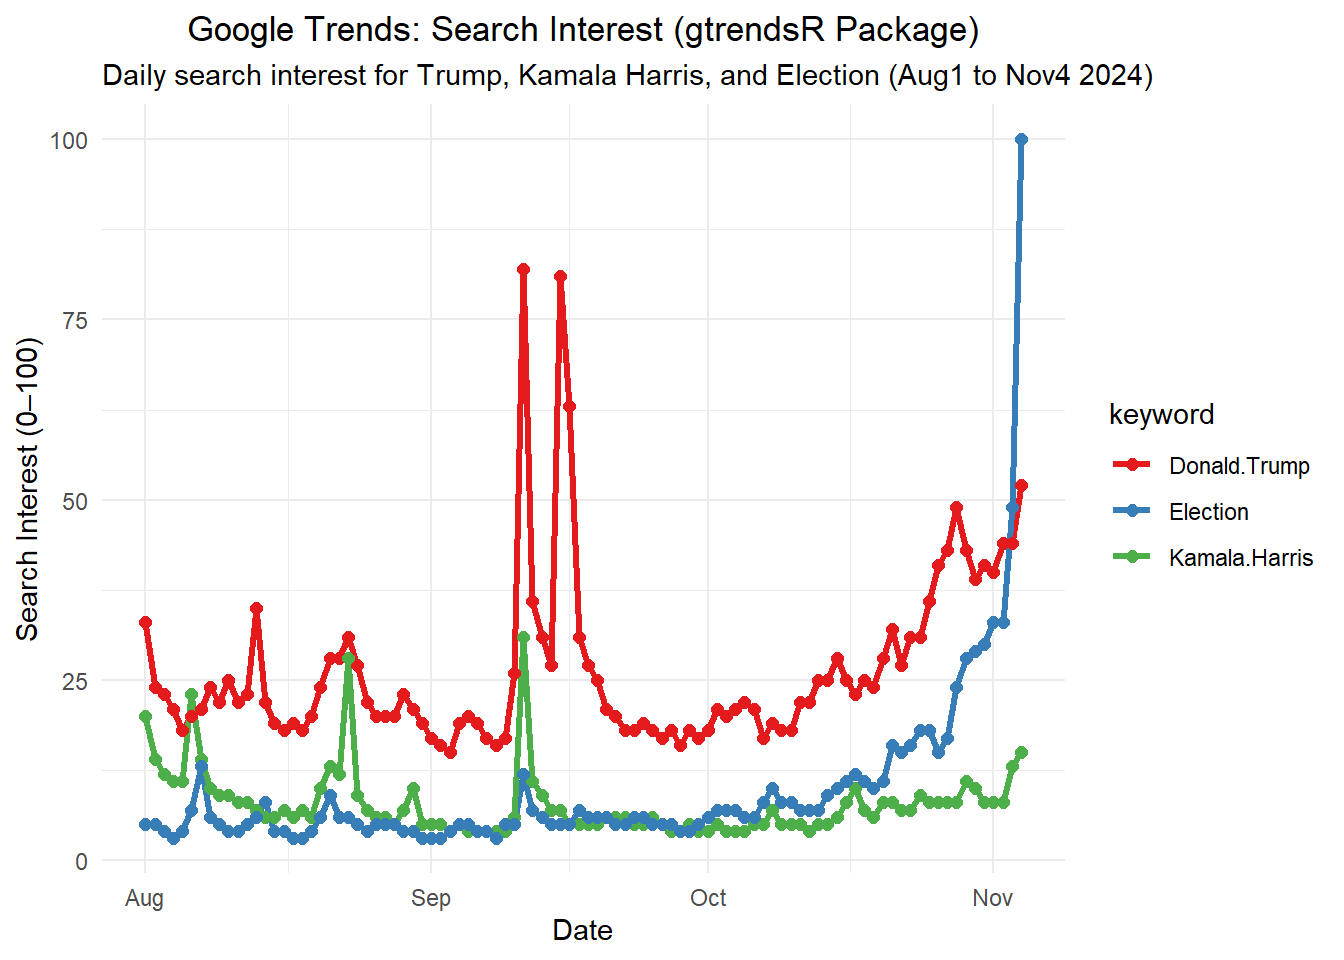
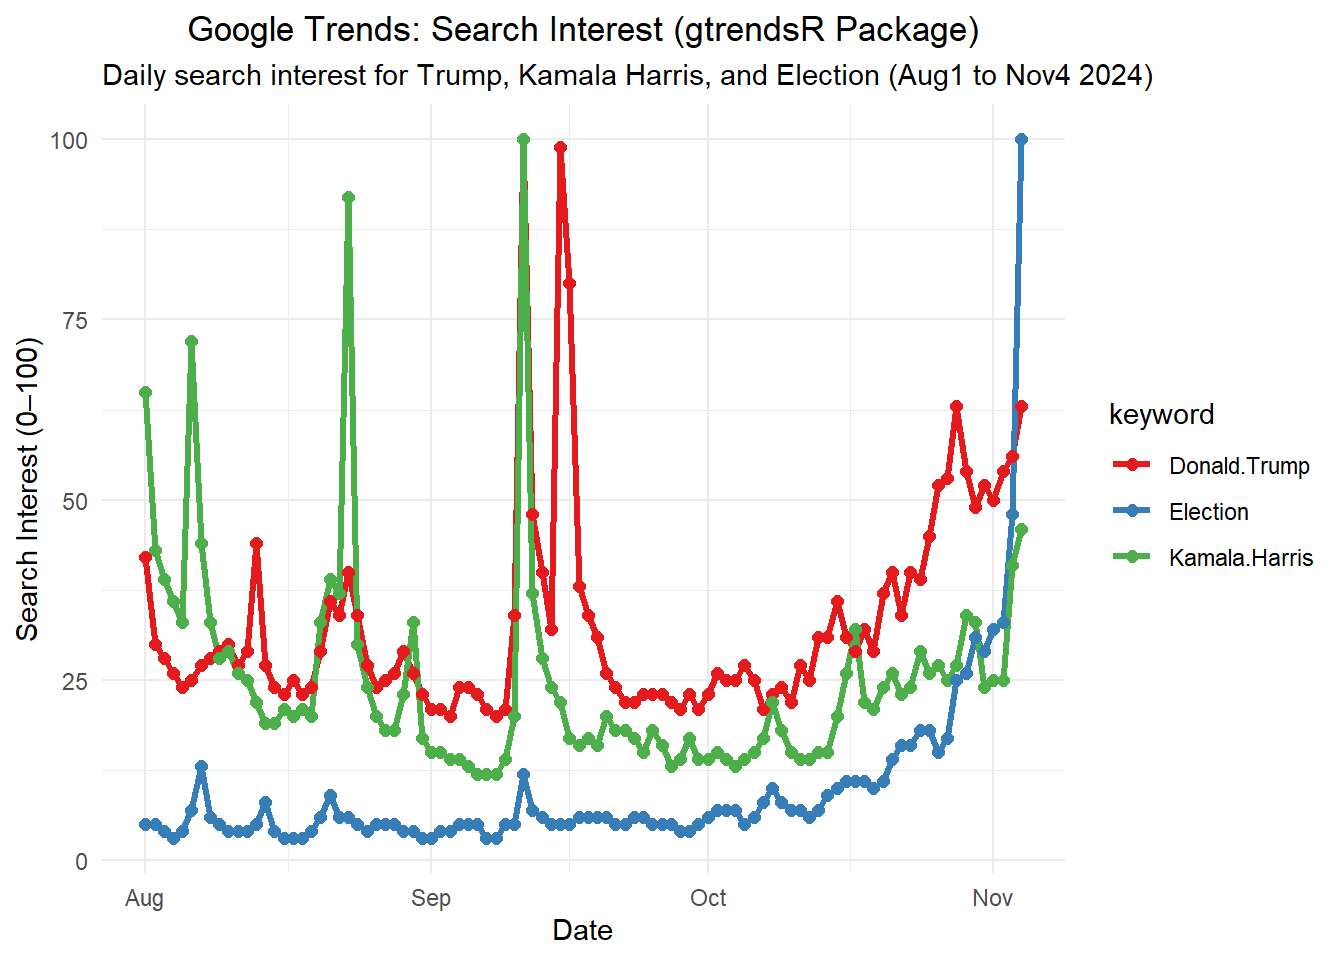
Ass 2 final

Changed region(s): [[0.0938, 0.125, 0.7812, 0.875], [0.75, 0.7812, 0.7812, 0.8125], [0.75, 0.4062, 0.7812, 0.4375]]

diff --git a/_site/Assignment12.html b/_site/Assignment12.html
@@ -193,6 +193,7 @@ pre > code.sourceCode > span > a:first-child::before { text-decoration: underlin
    
   <ul>
   <li><a href="#analysis-by-downloading-google-trends-data" id="toc-analysis-by-downloading-google-trends-data" class="nav-link active" data-scroll-target="#analysis-by-downloading-google-trends-data">Analysis by Downloading Google Trends Data</a></li>
+  <li><a href="#analysis-by-gtrendsr" id="toc-analysis-by-gtrendsr" class="nav-link" data-scroll-target="#analysis-by-gtrendsr">Analysis by gtrendsR</a></li>
   </ul>
 </nav>
     </div>
@@ -256,6 +257,63 @@ pre > code.sourceCode > span > a:first-child::before { text-decoration: underlin
 </div>
 </div>
 <p>The provided code utilizes three CSV files obtained from Google Trends. However, the datasets require preprocessing due to inconsistencies and formatting issues unsuitable for direct R analysis. Data cleaning steps were thus essential to enable effective visualization.</p>
+</section>
+<section id="analysis-by-gtrendsr" class="level1">
+<h1>Analysis by gtrendsR</h1>
+<div class="cell">
+<div class="sourceCode cell-code" id="cb2"><pre class="sourceCode r code-with-copy"><code class="sourceCode r"><span id="cb2-1"><a href="#cb2-1" aria-hidden="true" tabindex="-1"></a><span class="cf">if</span> (<span class="sc">!</span><span class="fu">requireNamespace</span>(<span class="st">"gtrendsR"</span>, <span class="at">quietly =</span> <span class="cn">TRUE</span>)) {</span>
+<span id="cb2-2"><a href="#cb2-2" aria-hidden="true" tabindex="-1"></a>  <span class="fu">install.packages</span>(<span class="st">"gtrendsR"</span>)</span>
+<span id="cb2-3"><a href="#cb2-3" aria-hidden="true" tabindex="-1"></a>}</span>
+<span id="cb2-4"><a href="#cb2-4" aria-hidden="true" tabindex="-1"></a><span class="fu">library</span>(gtrendsR)</span>
+<span id="cb2-5"><a href="#cb2-5" aria-hidden="true" tabindex="-1"></a></span>
+<span id="cb2-6"><a href="#cb2-6" aria-hidden="true" tabindex="-1"></a></span>
+<span id="cb2-7"><a href="#cb2-7" aria-hidden="true" tabindex="-1"></a>dates <span class="ot">&lt;-</span> <span class="st">"2024-08-01 2024-11-04"</span></span>
+<span id="cb2-8"><a href="#cb2-8" aria-hidden="true" tabindex="-1"></a>geo   <span class="ot">&lt;-</span> <span class="st">"US"</span></span>
+<span id="cb2-9"><a href="#cb2-9" aria-hidden="true" tabindex="-1"></a></span>
+<span id="cb2-10"><a href="#cb2-10" aria-hidden="true" tabindex="-1"></a>fetch_trend <span class="ot">&lt;-</span> <span class="cf">function</span>(term) {</span>
+<span id="cb2-11"><a href="#cb2-11" aria-hidden="true" tabindex="-1"></a>  <span class="fu">cat</span>(<span class="st">"Fetching:"</span>, term, <span class="st">"</span><span class="sc">\n</span><span class="st">"</span>)</span>
+<span id="cb2-12"><a href="#cb2-12" aria-hidden="true" tabindex="-1"></a>  res <span class="ot">&lt;-</span> <span class="fu">gtrends</span>(</span>
+<span id="cb2-13"><a href="#cb2-13" aria-hidden="true" tabindex="-1"></a>    <span class="at">keyword =</span> term,</span>
+<span id="cb2-14"><a href="#cb2-14" aria-hidden="true" tabindex="-1"></a>    <span class="at">time =</span> dates,</span>
+<span id="cb2-15"><a href="#cb2-15" aria-hidden="true" tabindex="-1"></a>    <span class="at">geo =</span> geo,</span>
+<span id="cb2-16"><a href="#cb2-16" aria-hidden="true" tabindex="-1"></a>    <span class="at">gprop =</span> <span class="st">"web"</span>,</span>
+<span id="cb2-17"><a href="#cb2-17" aria-hidden="true" tabindex="-1"></a>    <span class="at">hl =</span> <span class="st">"en-US"</span></span>
+<span id="cb2-18"><a href="#cb2-18" aria-hidden="true" tabindex="-1"></a>  )</span>
+<span id="cb2-19"><a href="#cb2-19" aria-hidden="true" tabindex="-1"></a>  <span class="fu">Sys.sleep</span>(<span class="dv">25</span>)  </span>
+<span id="cb2-20"><a href="#cb2-20" aria-hidden="true" tabindex="-1"></a>  <span class="fu">return</span>(res<span class="sc">$</span>interest_over_time)</span>
+<span id="cb2-21"><a href="#cb2-21" aria-hidden="true" tabindex="-1"></a>}</span>
+<span id="cb2-22"><a href="#cb2-22" aria-hidden="true" tabindex="-1"></a></span>
+<span id="cb2-23"><a href="#cb2-23" aria-hidden="true" tabindex="-1"></a>terms <span class="ot">&lt;-</span> <span class="fu">c</span>(<span class="st">"Trump"</span>, <span class="st">"Kamala Harris"</span>, <span class="st">"Election"</span>)</span>
+<span id="cb2-24"><a href="#cb2-24" aria-hidden="true" tabindex="-1"></a>trends_list <span class="ot">&lt;-</span> <span class="fu">lapply</span>(terms, fetch_trend)</span></code><button title="Copy to Clipboard" class="code-copy-button"><i class="bi"></i></button></pre></div>
+<div class="cell-output cell-output-stdout">
+<pre><code>Fetching: Trump 
+Fetching: Kamala Harris 
+Fetching: Election </code></pre>
+</div>
+<div class="sourceCode cell-code" id="cb4"><pre class="sourceCode r code-with-copy"><code class="sourceCode r"><span id="cb4-1"><a href="#cb4-1" aria-hidden="true" tabindex="-1"></a>trends_data <span class="ot">&lt;-</span> <span class="fu">bind_rows</span>(trends_list)</span>
+<span id="cb4-2"><a href="#cb4-2" aria-hidden="true" tabindex="-1"></a></span>
+<span id="cb4-3"><a href="#cb4-3" aria-hidden="true" tabindex="-1"></a>trends_data<span class="sc">$</span>keyword <span class="ot">&lt;-</span> <span class="fu">gsub</span>(<span class="st">"Trump"</span>, <span class="st">"Donald.Trump"</span>, trends_data<span class="sc">$</span>keyword)</span>
+<span id="cb4-4"><a href="#cb4-4" aria-hidden="true" tabindex="-1"></a>trends_data<span class="sc">$</span>keyword <span class="ot">&lt;-</span> <span class="fu">gsub</span>(<span class="st">"Kamala Harris"</span>, <span class="st">"Kamala.Harris"</span>, trends_data<span class="sc">$</span>keyword)</span>
+<span id="cb4-5"><a href="#cb4-5" aria-hidden="true" tabindex="-1"></a></span>
+<span id="cb4-6"><a href="#cb4-6" aria-hidden="true" tabindex="-1"></a></span>
+<span id="cb4-7"><a href="#cb4-7" aria-hidden="true" tabindex="-1"></a><span class="co"># Plot</span></span>
+<span id="cb4-8"><a href="#cb4-8" aria-hidden="true" tabindex="-1"></a><span class="fu">ggplot</span>(trends_data, <span class="fu">aes</span>(<span class="at">x =</span> date, <span class="at">y =</span> hits, <span class="at">color =</span> keyword)) <span class="sc">+</span></span>
+<span id="cb4-9"><a href="#cb4-9" aria-hidden="true" tabindex="-1"></a>  <span class="fu">geom_line</span>(<span class="at">size =</span> <span class="fl">1.2</span>) <span class="sc">+</span></span>
+<span id="cb4-10"><a href="#cb4-10" aria-hidden="true" tabindex="-1"></a>  <span class="fu">geom_point</span>(<span class="at">size =</span> <span class="dv">2</span>) <span class="sc">+</span></span>
+<span id="cb4-11"><a href="#cb4-11" aria-hidden="true" tabindex="-1"></a>  <span class="fu">labs</span>(</span>
+<span id="cb4-12"><a href="#cb4-12" aria-hidden="true" tabindex="-1"></a>    <span class="at">title =</span> <span class="st">"Google Trends: Search Interest (gtrendsR Package)"</span>,</span>
+<span id="cb4-13"><a href="#cb4-13" aria-hidden="true" tabindex="-1"></a>    <span class="at">subtitle =</span> <span class="st">"Daily search interest for Trump, Kamala Harris, and Election (Aug1 to Nov4 2024)"</span>,</span>
+<span id="cb4-14"><a href="#cb4-14" aria-hidden="true" tabindex="-1"></a>    <span class="at">x =</span> <span class="st">"Date"</span>,</span>
+<span id="cb4-15"><a href="#cb4-15" aria-hidden="true" tabindex="-1"></a>    <span class="at">y =</span> <span class="st">"Search Interest (0–100)"</span></span>
+<span id="cb4-16"><a href="#cb4-16" aria-hidden="true" tabindex="-1"></a>  ) <span class="sc">+</span></span>
+<span id="cb4-17"><a href="#cb4-17" aria-hidden="true" tabindex="-1"></a>  <span class="fu">scale_color_brewer</span>(<span class="at">palette =</span> <span class="st">"Set1"</span>) <span class="sc">+</span></span>
+<span id="cb4-18"><a href="#cb4-18" aria-hidden="true" tabindex="-1"></a>  <span class="fu">theme_minimal</span>() <span class="sc">+</span></span>
+<span id="cb4-19"><a href="#cb4-19" aria-hidden="true" tabindex="-1"></a>  <span class="fu">theme</span>(<span class="at">plot.title =</span> <span class="fu">element_text</span>(<span class="at">hjust =</span> <span class="fl">0.5</span>))</span></code><button title="Copy to Clipboard" class="code-copy-button"><i class="bi"></i></button></pre></div>
+<div class="cell-output-display">
+<p><img src="Assignment12_files/figure-html/unnamed-chunk-2-1.png" class="img-fluid" width="672"></p>
+</div>
+</div>
+<p>Using the gtrendsR package produces essentially the same substantive insights as downloading Google Trends data manually. The main distinction lies in workflow: gtrendsR automates the retrieval and returns data already structured for R, making the process smoother and reducing manual cleaning, while the underlying trend patterns remain unchanged.</p>
 
 
 </section>
